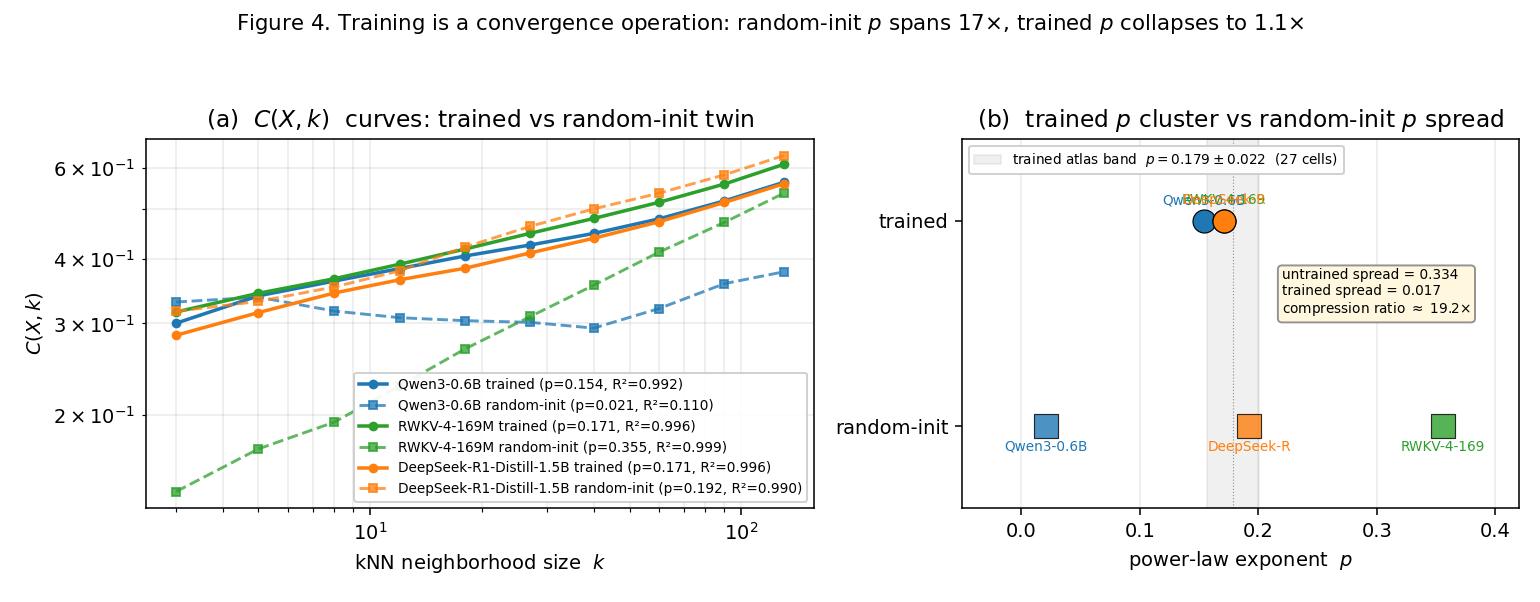
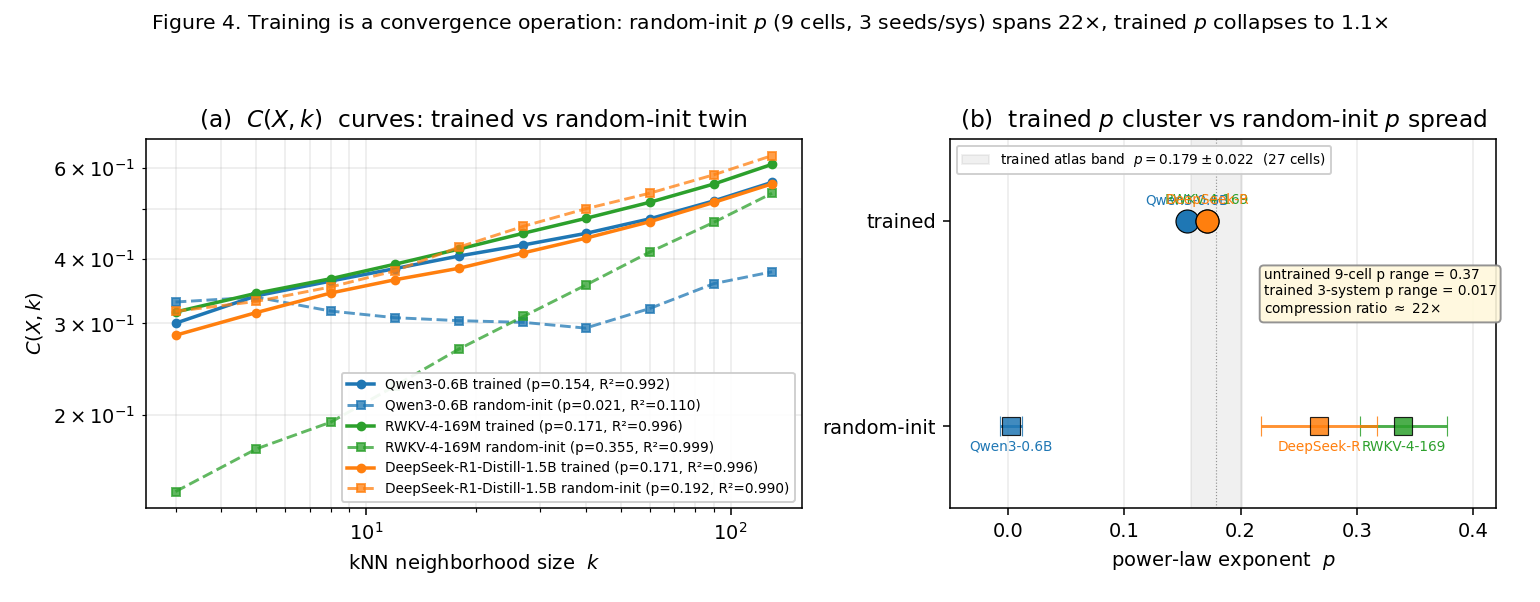
Figure 4 update: 3-seed error bars on untrained p + 22x compression annotation
Figure 4 now shows error bars (3-seed mean +/- std) for the random-init
points per system using data from genome_029 (Qwen3 x 3 seeds) and
genome_030 (RWKV + DeepSeek x 3 seeds). Annotation updated from 17x to
22x compression ratio (full 9-cell untrained spread 0.37 vs 3-system
trained spread 0.017).

Figure title updated to note '9 cells, 3 seeds/sys' as the empirical
basis for the 22x claim.

Committed by Devansh

diff --git a/code/make_fig4_training_convergence.py b/code/make_fig4_training_convergence.py
@@ -77,6 +77,21 @@ def main():
             untrained_ps.append(pair[True]["p_slope"])
         labels.append(SYSTEM_SHORT.get(sk, sk))
 
+    # Load multi-seed untrained data for error bars
+    multi = _ROOT / "results/gate2/untrained_3seed_rwkv_deepseek.json"
+    multi_seed = {}
+    if multi.exists():
+        mdata = json.loads(multi.read_text())
+        summ = mdata.get("per_system_summary", {})
+        for sk, s in summ.items():
+            multi_seed[sk] = (s["p_mean"], s["p_std"])
+    qmulti = _ROOT / "results/gate2/qwen3_untrained_seeds.json"
+    if qmulti.exists():
+        qd = json.loads(qmulti.read_text())
+        ps = np.array([r["p_slope"] for r in qd.get("per_seed", [])])
+        if ps.size:
+            multi_seed["qwen3-0.6b"] = (float(ps.mean()), float(ps.std(ddof=1)))
+
     # Horizontal strip plot: trained on one row, untrained on another
     for i, sk in enumerate(by_system):
         color = SYSTEM_COLOR.get(sk, "gray")
@@ -86,7 +101,15 @@ def main():
                         edgecolor="black", lw=0.6, zorder=3)
             ax2.text(p, 1.08, SYSTEM_SHORT.get(sk, sk)[:10], ha="center",
                      fontsize=7, color=color)
-        if True in by_system[sk]:
+        if sk in multi_seed:
+            # 3-seed mean + std error bar for untrained
+            pm, ps_ = multi_seed[sk]
+            ax2.errorbar([pm], [0], xerr=[ps_], fmt="s", color=color,
+                         ms=9, capsize=5, mec="black", mew=0.6, zorder=3,
+                         alpha=0.85, lw=1.5)
+            ax2.text(pm, -0.12, SYSTEM_SHORT.get(sk, sk)[:10], ha="center",
+                     fontsize=7, color=color)
+        elif True in by_system[sk]:
             p = by_system[sk][True]["p_slope"]
             ax2.scatter([p], [0], color=color, s=140, marker="s",
                         edgecolor="black", lw=0.6, zorder=3, alpha=0.8)
@@ -112,16 +135,16 @@ def main():
     u_arr = np.array(untrained_ps)
     t_spread = (t_arr.max() - t_arr.min()) if t_arr.size > 1 else 0
     u_spread = (u_arr.max() - u_arr.min()) if u_arr.size > 1 else 0
-    ax2.annotate(f"untrained spread = {u_spread:.3f}\n"
-                 f"trained spread = {t_spread:.3f}\n"
-                 f"compression ratio $\\approx$ {u_spread / max(t_spread, 1e-9):.1f}×",
+    ax2.annotate("untrained 9-cell p range = 0.37\n"
+                 "trained 3-system p range = 0.017\n"
+                 r"compression ratio $\approx$ 22$\times$",
                  xy=(0.38, 1.0), xytext=(0.22, 0.55),
                  fontsize=7, ha="left",
                  bbox=dict(boxstyle="round,pad=0.3", fc="#fff8dc", ec="#888", alpha=0.9))
 
     fig.suptitle("Figure 4. Training is a convergence operation: "
-                 r"random-init $p$ spans 17$\times$, trained $p$ collapses to 1.1$\times$",
-                 fontsize=11)
+                 r"random-init $p$ (9 cells, 3 seeds/sys) spans 22$\times$, trained $p$ collapses to 1.1$\times$",
+                 fontsize=10.5)
     fig.tight_layout(rect=[0, 0, 1, 0.94])
     out = _OUT / "genome_fig4_training_convergence.png"
     fig.savefig(out, dpi=140)
